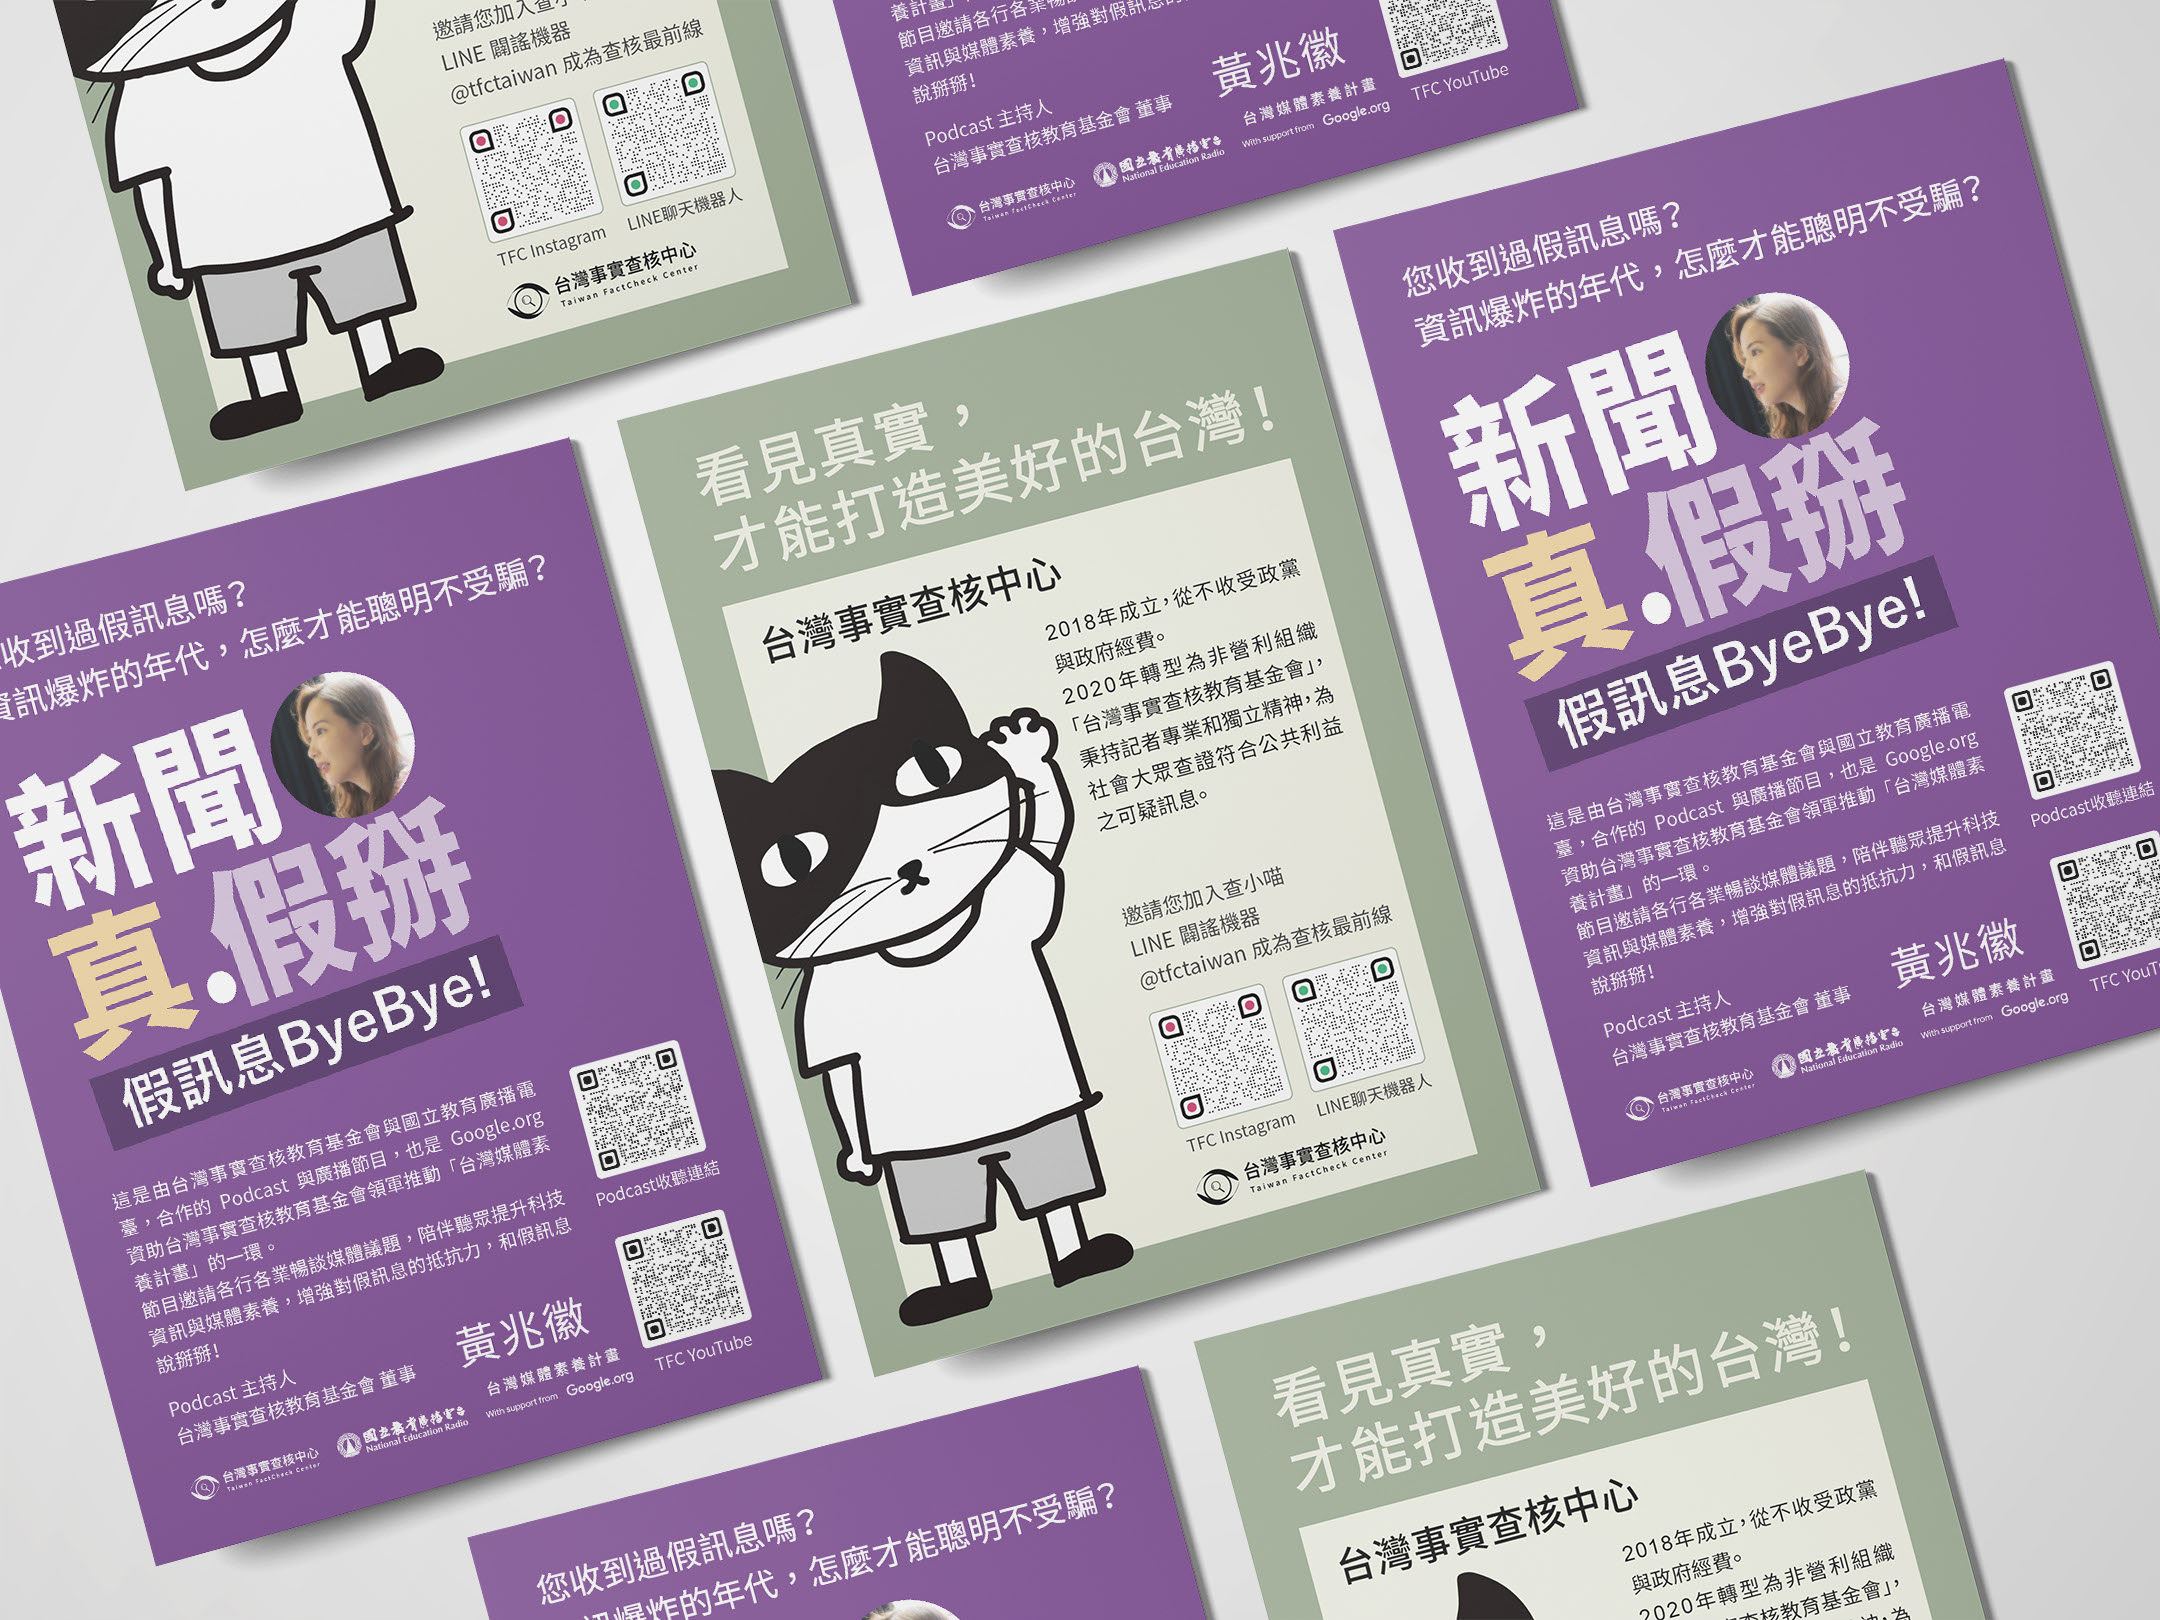
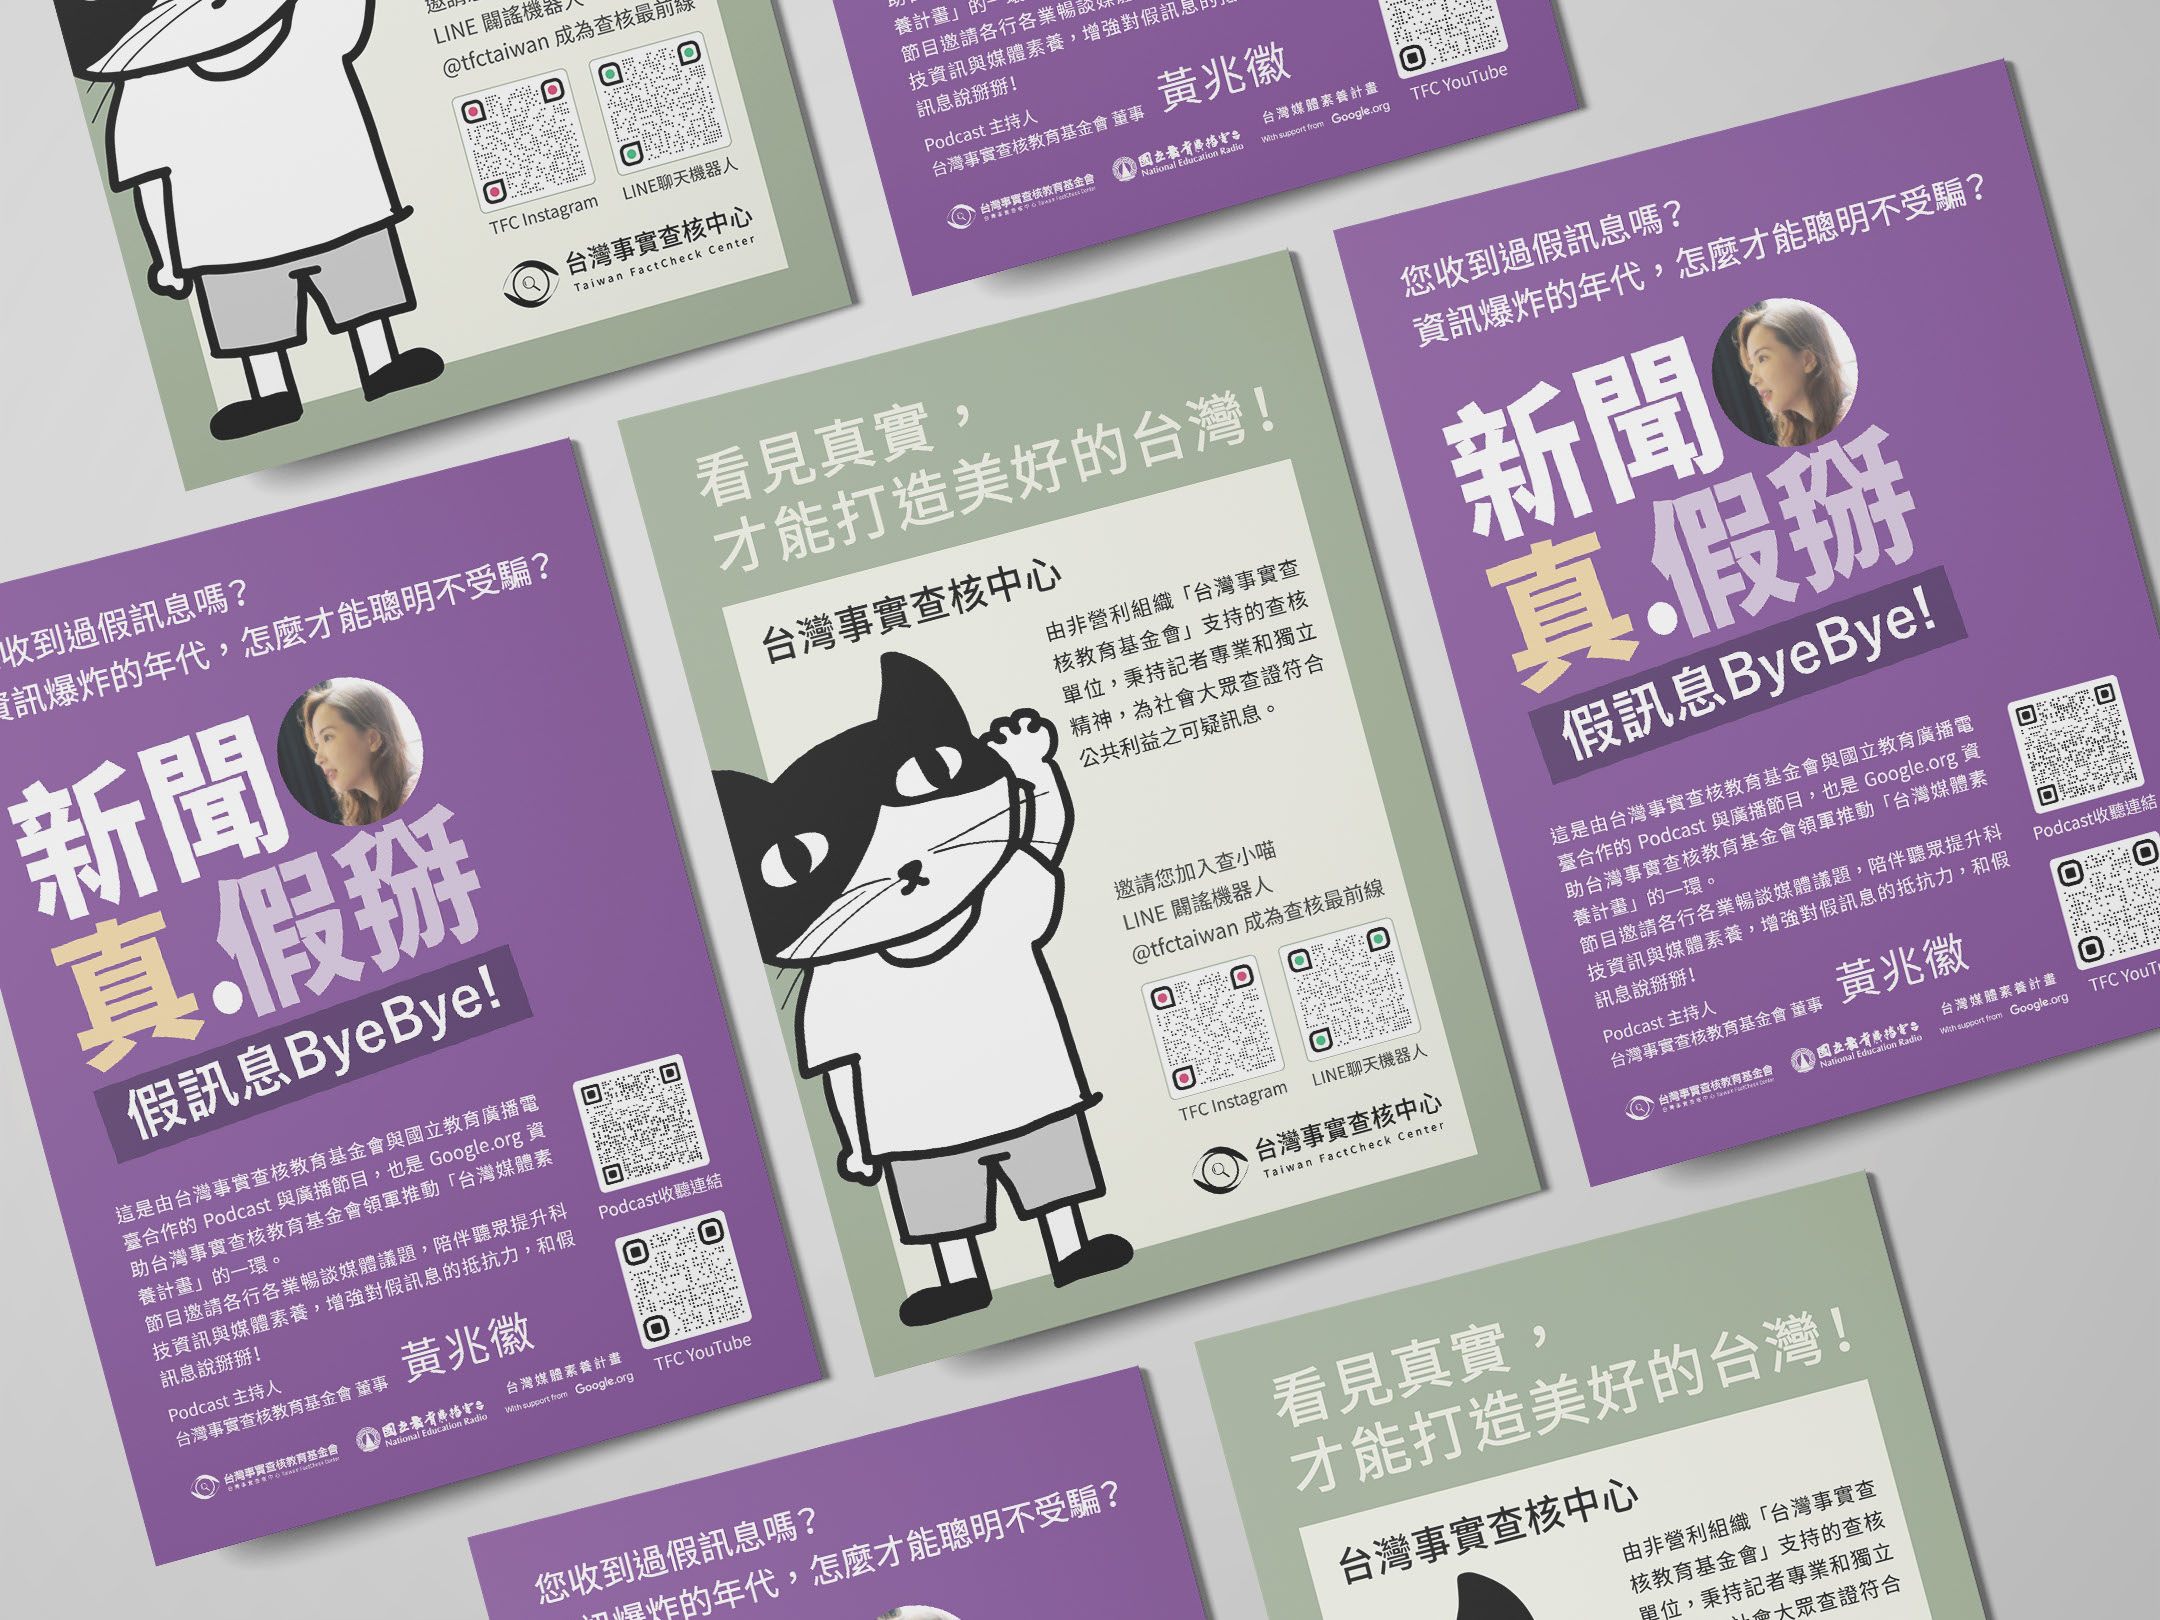
changepic

diff --git a/TaiwanFactCheckCenter/css/index.css b/TaiwanFactCheckCenter/css/index.css
@@ -1,1 +1,1 @@
-.version.index{color:#0000E4;background-color:#953A88;}.js body{visibility:hidden;}.js body.initialized{visibility:visible;}#page{background-image:none;background-color:transparent;margin-left:auto;margin-right:auto;border-width:0px;width:414px;z-index:1;border-color:#000000;padding-bottom:62px;}#pu5039{width:0.01px;z-index:2;margin-right:-10000px;}#u5039{background-position:left top;opacity:1;background-repeat:no-repeat;background-color:#FFFFFF;filter:alpha(opacity=100);z-index:2;-ms-filter:"progid:DXImageTransform.Microsoft.Alpha(Opacity=100)";background-size:cover;}#u6647{background-color:transparent;position:relative;z-index:27;}#pu6674{margin-right:-10000px;width:0.01px;z-index:3;}#u6674{background-color:transparent;position:relative;border-width:0px;z-index:3;border-color:transparent;}#toppppp{width:22px;position:relative;margin-right:-10000px;}#u4331{background-color:transparent;position:relative;margin-right:-10000px;border-width:0px;width:170px;z-index:5;border-color:transparent;}#u4334-4{line-height:17px;font-family:Helvetica, Helvetica Neue, Arial, sans-serif;background-color:transparent;min-height:9px;font-size:11px;text-align:center;width:50px;color:#050505;z-index:6;position:relative;margin-right:-10000px;}#u4332-4{line-height:17px;left:66px;position:relative;background-color:transparent;font-family:Helvetica, Helvetica Neue, Arial, sans-serif;min-height:8px;font-size:11px;text-align:center;width:38px;color:#050505;z-index:14;margin-right:-10000px;}#u4333-4{line-height:17px;left:120px;position:relative;background-color:transparent;font-family:Helvetica, Helvetica Neue, Arial, sans-serif;min-height:8px;font-size:11px;text-align:center;width:50px;color:#050505;z-index:10;margin-right:-10000px;}#u4334,#u4332,#u4333{text-decoration:underline;}#u6663{background-color:transparent;position:relative;border-width:0px;z-index:29;border-color:transparent;}#u6664-8{line-height:14px;background-color:transparent;font-size:10px;color:#000000;z-index:30;position:relative;margin-right:-10000px;}#u3092{background-color:transparent;position:relative;width:116px;z-index:18;}#u3094{background-color:transparent;position:relative;margin-right:-10000px;border-width:0px;width:95px;z-index:20;border-color:transparent;}#u3095{width:25px;background-color:transparent;z-index:21;position:relative;margin-right:-10000px;}#u3097{left:35px;background-color:transparent;position:relative;margin-right:-10000px;width:25px;z-index:23;}#u3099{left:70px;background-color:transparent;position:relative;margin-right:-10000px;width:25px;z-index:25;}.html{background-color:#FFFFFF;}body{position:relative;min-width:414px;}@media (min-width: 415px), print{#muse_css_mq{background-color:#FFFFFF;}#bp_infinity.active{display:block;}#page{min-height:1742px;}#pu5039{padding-bottom:0px;margin-left:-405px;}#u5039{height:816px;background-image:url("../images/mockup2.jpg?crc=3849213805");}#u5039-bw{z-index:2;height:816px;}#u6647{width:1024px;margin-left:100px;margin-top:108px;}.css_verticalspacer .verticalspacer{height:calc(100vh - 1662px);}#pu6674{padding-bottom:0px;margin-top:-1742px;margin-left:-405px;}#u6674{width:1174px;}#u4331{margin-top:49px;left:1004px;}#pu6663{z-index:29;width:0.01px;margin-left:100px;margin-top:1633px;}#u6663{width:189px;margin-right:-10000px;}#u6664-8{width:189px;min-height:26px;}#u3092{margin-right:-10000px;margin-top:33px;left:763px;}#u3094{margin-top:17px;left:929px;}.verticalspacer{min-height:142px;}}@media (max-width: 414px){#muse_css_mq{background-color:#00019e;}#bp_414.active{display:block;}#page{min-height:968px;}#pu5039{margin-top:97px;}#u5039{width:414px;height:428px;background-image:url("../images/mockup2-u5039-fr.jpg?crc=77392519");position:relative;}.hidpi #u5039{background-image:url("../images/mockup2-u5039-fr_2x.jpg?crc=210072705");}#u6647{width:414px;margin-top:30px;}.css_verticalspacer .verticalspacer{height:calc(100vh - 890px);}#pu6674{margin-top:-968px;}#u6674{width:228px;}#u4331{margin-top:50px;left:58px;}#u6663{width:179px;margin-left:58px;margin-top:791px;}#u6664-8{width:179px;min-height:9px;}#u3092{margin-left:58px;margin-top:59px;}#u3094{margin-top:-25px;left:261px;}body{overflow-x:hidden;}.verticalspacer{min-height:140px;}}
+.version.index{color:#0000F3;background-color:#6EEBB5;}.js body{visibility:hidden;}.js body.initialized{visibility:visible;}#page{background-image:none;background-color:transparent;margin-left:auto;margin-right:auto;border-width:0px;width:414px;z-index:1;border-color:#000000;padding-bottom:62px;}#pu5039{width:0.01px;z-index:2;margin-right:-10000px;}#u5039{background-position:left top;opacity:1;background-repeat:no-repeat;background-color:#FFFFFF;filter:alpha(opacity=100);z-index:2;-ms-filter:"progid:DXImageTransform.Microsoft.Alpha(Opacity=100)";background-size:cover;}#u6647{background-color:transparent;position:relative;z-index:27;}#pu6674{margin-right:-10000px;width:0.01px;z-index:3;}#u6674{background-color:transparent;position:relative;border-width:0px;z-index:3;border-color:transparent;}#toppppp{width:22px;position:relative;margin-right:-10000px;}#u4331{background-color:transparent;position:relative;margin-right:-10000px;border-width:0px;width:170px;z-index:5;border-color:transparent;}#u4334-4{line-height:17px;font-family:Helvetica, Helvetica Neue, Arial, sans-serif;background-color:transparent;min-height:9px;font-size:11px;text-align:center;width:50px;color:#050505;z-index:6;position:relative;margin-right:-10000px;}#u4332-4{line-height:17px;left:66px;position:relative;background-color:transparent;font-family:Helvetica, Helvetica Neue, Arial, sans-serif;min-height:8px;font-size:11px;text-align:center;width:38px;color:#050505;z-index:14;margin-right:-10000px;}#u4333-4{line-height:17px;left:120px;position:relative;background-color:transparent;font-family:Helvetica, Helvetica Neue, Arial, sans-serif;min-height:8px;font-size:11px;text-align:center;width:50px;color:#050505;z-index:10;margin-right:-10000px;}#u4334,#u4332,#u4333{text-decoration:underline;}#u6663{background-color:transparent;position:relative;border-width:0px;z-index:29;border-color:transparent;}#u6664-8{line-height:14px;background-color:transparent;font-size:10px;color:#000000;z-index:30;position:relative;margin-right:-10000px;}#u3092{background-color:transparent;position:relative;width:116px;z-index:18;}#u3094{background-color:transparent;position:relative;margin-right:-10000px;border-width:0px;width:95px;z-index:20;border-color:transparent;}#u3095{width:25px;background-color:transparent;z-index:21;position:relative;margin-right:-10000px;}#u3097{left:35px;background-color:transparent;position:relative;margin-right:-10000px;width:25px;z-index:23;}#u3099{left:70px;background-color:transparent;position:relative;margin-right:-10000px;width:25px;z-index:25;}.html{background-color:#FFFFFF;}body{position:relative;min-width:414px;}@media (min-width: 415px), print{#muse_css_mq{background-color:#FFFFFF;}#bp_infinity.active{display:block;}#page{min-height:1742px;}#pu5039{padding-bottom:0px;margin-left:-405px;}#u5039{height:816px;background-image:url("../images/mockup2.jpg?crc=343434161");}#u5039-bw{z-index:2;height:816px;}#u6647{width:1024px;margin-left:100px;margin-top:108px;}.css_verticalspacer .verticalspacer{height:calc(100vh - 1662px);}#pu6674{padding-bottom:0px;margin-top:-1742px;margin-left:-405px;}#u6674{width:1174px;}#u4331{margin-top:49px;left:1004px;}#pu6663{z-index:29;width:0.01px;margin-left:100px;margin-top:1633px;}#u6663{width:189px;margin-right:-10000px;}#u6664-8{width:189px;min-height:26px;}#u3092{margin-right:-10000px;margin-top:33px;left:763px;}#u3094{margin-top:17px;left:929px;}.verticalspacer{min-height:142px;}}@media (max-width: 414px){#muse_css_mq{background-color:#00019e;}#bp_414.active{display:block;}#page{min-height:968px;}#pu5039{margin-top:97px;}#u5039{width:414px;height:428px;background-image:url("../images/mockup2-u5039-fr.jpg?crc=242302199");position:relative;}.hidpi #u5039{background-image:url("../images/mockup2-u5039-fr_2x.jpg?crc=372271581");}#u6647{width:414px;margin-top:30px;}.css_verticalspacer .verticalspacer{height:calc(100vh - 890px);}#pu6674{margin-top:-968px;}#u6674{width:228px;}#u4331{margin-top:50px;left:58px;}#u6663{width:179px;margin-left:58px;margin-top:791px;}#u6664-8{width:179px;min-height:9px;}#u3092{margin-left:58px;margin-top:59px;}#u3094{margin-top:-25px;left:261px;}body{overflow-x:hidden;}.verticalspacer{min-height:140px;}}

diff --git a/TaiwanFactCheckCenter/index.html b/TaiwanFactCheckCenter/index.html
@@ -17,10 +17,10 @@ if(typeof Muse == "undefined") window.Muse = {}; window.Muse.assets = {"required
   <title>&nbsp;TaiwanFactCheckCenter</title>
   <!-- CSS -->
   <link rel="stylesheet" type="text/css" href="css/site_global.css?crc=4150625756"/>
-  <link rel="stylesheet" type="text/css" href="css/index.css?crc=3834985096" id="pagesheet"/>
+  <link rel="stylesheet" type="text/css" href="css/index.css?crc=4084132789" id="pagesheet"/>
   <!-- IE-only CSS -->
   <!--[if lt IE 9]>
-  <link rel="stylesheet" type="text/css" href="css/nomq_index.css?crc=4108129990" id="nomq_pagesheet"/>
+  <link rel="stylesheet" type="text/css" href="css/nomq_index.css?crc=4085367549" id="nomq_pagesheet"/>
   <![endif]-->
    </head>
  <body>
@@ -32,7 +32,7 @@ if(typeof Muse == "undefined") window.Muse = {}; window.Muse.assets = {"required
       <div class="museBGSize shared_content" id="u5039" data-content-guid="u5039_content"><!-- simple frame --></div>
      </div>
      <div class="clip_frame colelem" id="u6647"><!-- image -->
-      <img class="block temp_no_img_src" id="u6647_img" data-orig-src="images/mockup.jpg?crc=4271890066" data-hidpi-src="images/mockup_2x.jpg?crc=4193956945" alt="" width="1024" height="677" src="images/blank.gif?crc=4208392903"/>
+      <img class="block temp_no_img_src" id="u6647_img" data-orig-src="images/mockup.jpg?crc=3944620546" data-hidpi-src="images/mockup_2x.jpg?crc=44646008" alt="" width="1024" height="677" src="images/blank.gif?crc=4208392903"/>
      </div>
     </div>
     <div class="verticalspacer" data-offset-top="1600" data-content-above-spacer="1600" data-content-below-spacer="62"></div>
@@ -70,7 +70,7 @@ if(typeof Muse == "undefined") window.Muse = {}; window.Muse.assets = {"required
     <div class="clearfix grpelem temp_no_id" data-orig-id="pu5039"><!-- column -->
      <span class="museBGSize colelem placeholder" data-placeholder-for="u5039_content"><!-- placeholder node --></span>
      <div class="clip_frame colelem temp_no_id" data-orig-id="u6647"><!-- image -->
-      <img class="block temp_no_id temp_no_img_src" data-orig-src="images/mockup414x274.jpg?crc=432309909" data-hidpi-src="images/mockup414x274_2x.jpg?crc=288659178" alt="" width="414" height="274" data-orig-id="u6647_img" src="images/blank.gif?crc=4208392903"/>
+      <img class="block temp_no_id temp_no_img_src" data-orig-src="images/mockup414x274.jpg?crc=3929115777" data-hidpi-src="images/mockup414x274_2x.jpg?crc=3783997328" alt="" width="414" height="274" data-orig-id="u6647_img" src="images/blank.gif?crc=4208392903"/>
      </div>
     </div>
     <div class="verticalspacer" data-offset-top="828" data-content-above-spacer="828" data-content-below-spacer="62"></div>

diff --git a/TaiwanFactCheckCenter/css/nomq_index.css b/TaiwanFactCheckCenter/css/nomq_index.css
@@ -1,1 +1,1 @@
-#muse_css_mq{background-color:#FFFFFF;}#bp_infinity.active{display:block;}#page{min-height:1742px;}#pu5039{padding-bottom:0px;margin-left:-405px;}#u5039{height:816px;background-image:url("../images/mockup2.jpg?crc=3849213805");}#u5039-bw{z-index:2;height:816px;}#u6647{width:1024px;margin-left:100px;margin-top:108px;}.css_verticalspacer .verticalspacer{height:calc(100vh - 1662px);}#pu6674{padding-bottom:0px;margin-top:-1742px;margin-left:-405px;}#u6674{width:1174px;}#u4331{margin-top:49px;left:1004px;}#pu6663{z-index:29;width:0.01px;margin-left:100px;margin-top:1633px;}#u6663{width:189px;margin-right:-10000px;}#u6664-8{width:189px;min-height:26px;}#u3092{margin-right:-10000px;margin-top:33px;left:763px;}#u3094{margin-top:17px;left:929px;}.verticalspacer{min-height:142px;}
+#muse_css_mq{background-color:#FFFFFF;}#bp_infinity.active{display:block;}#page{min-height:1742px;}#pu5039{padding-bottom:0px;margin-left:-405px;}#u5039{height:816px;background-image:url("../images/mockup2.jpg?crc=343434161");}#u5039-bw{z-index:2;height:816px;}#u6647{width:1024px;margin-left:100px;margin-top:108px;}.css_verticalspacer .verticalspacer{height:calc(100vh - 1662px);}#pu6674{padding-bottom:0px;margin-top:-1742px;margin-left:-405px;}#u6674{width:1174px;}#u4331{margin-top:49px;left:1004px;}#pu6663{z-index:29;width:0.01px;margin-left:100px;margin-top:1633px;}#u6663{width:189px;margin-right:-10000px;}#u6664-8{width:189px;min-height:26px;}#u3092{margin-right:-10000px;margin-top:33px;left:763px;}#u3094{margin-top:17px;left:929px;}.verticalspacer{min-height:142px;}
